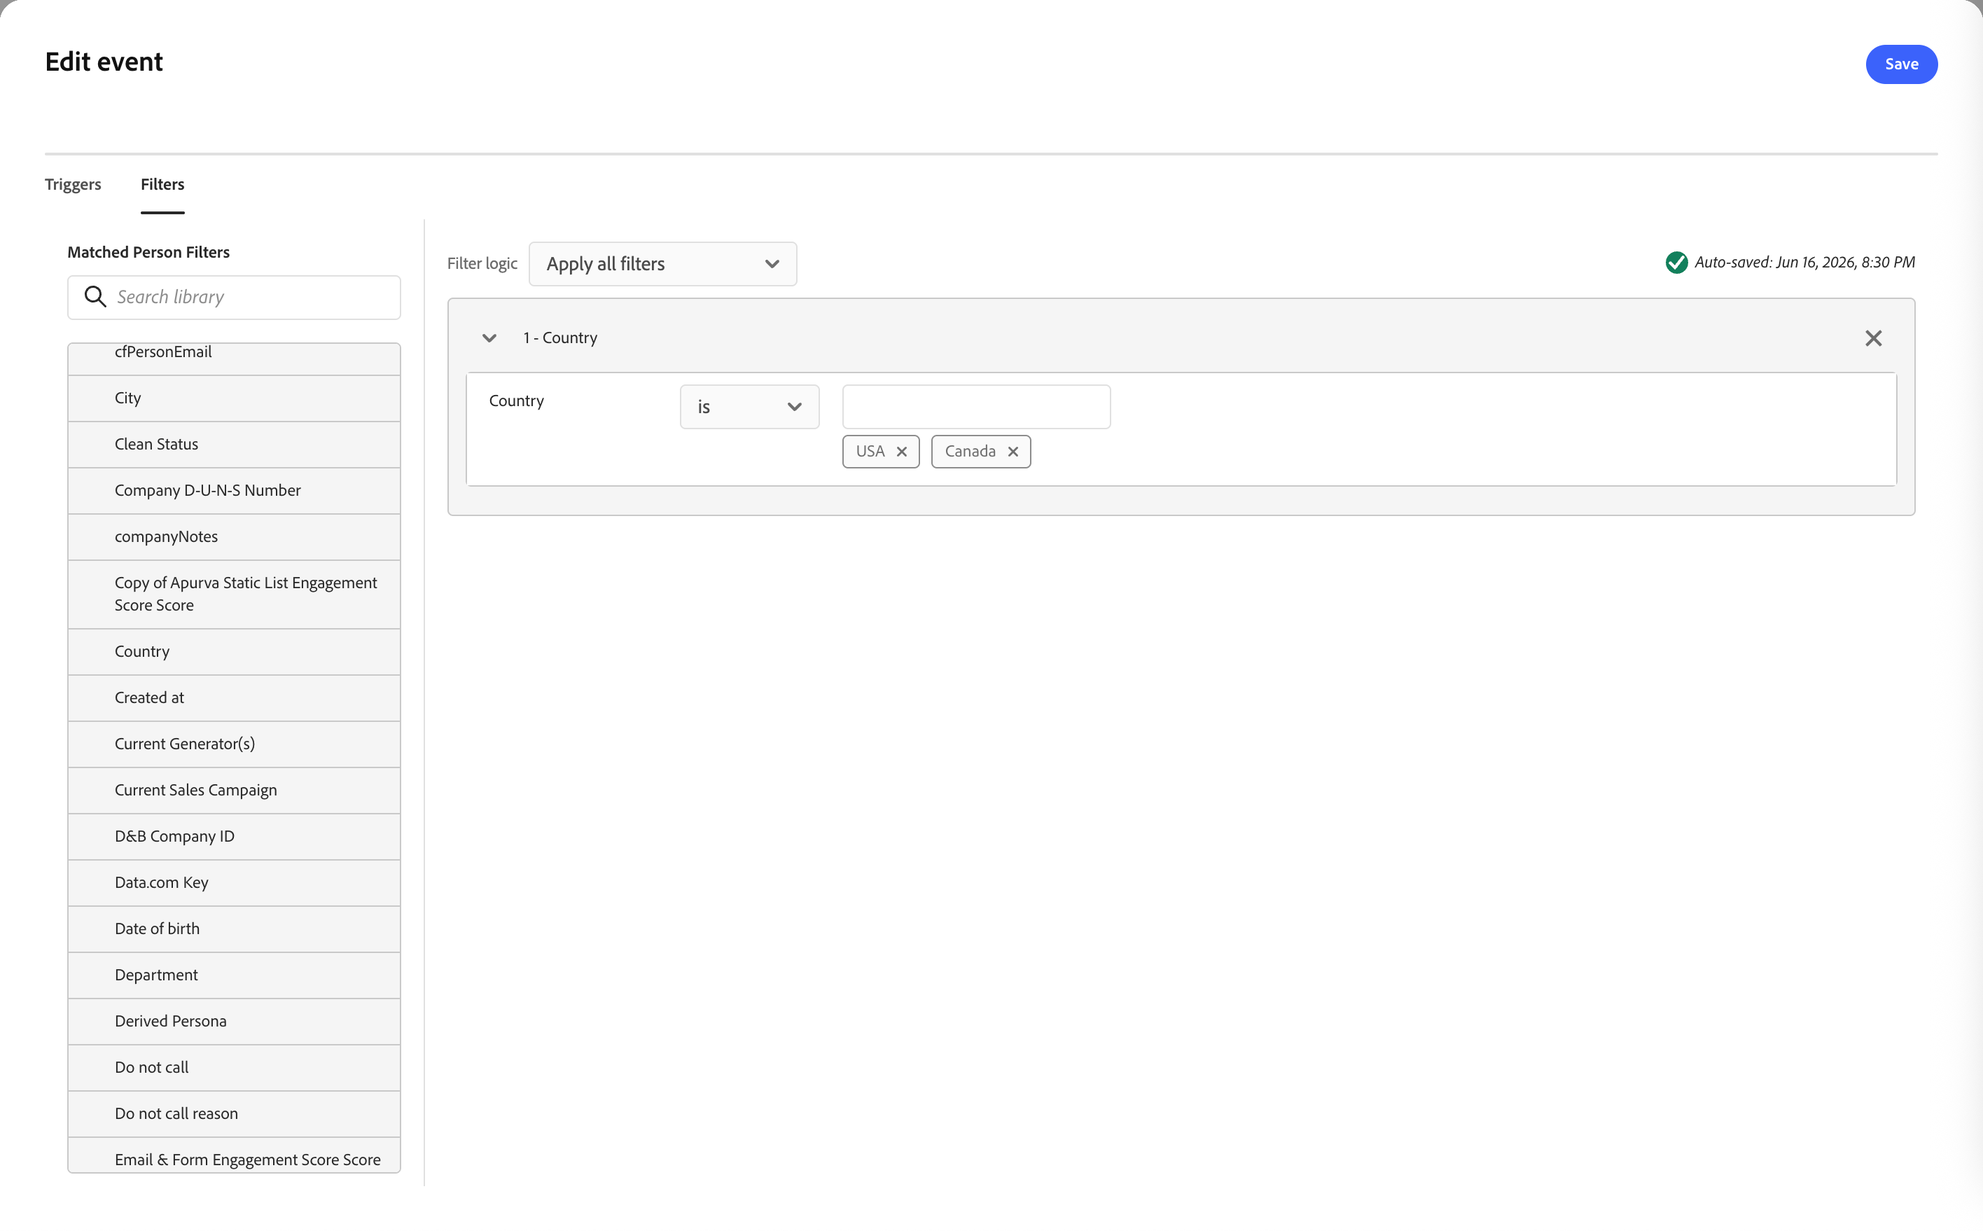
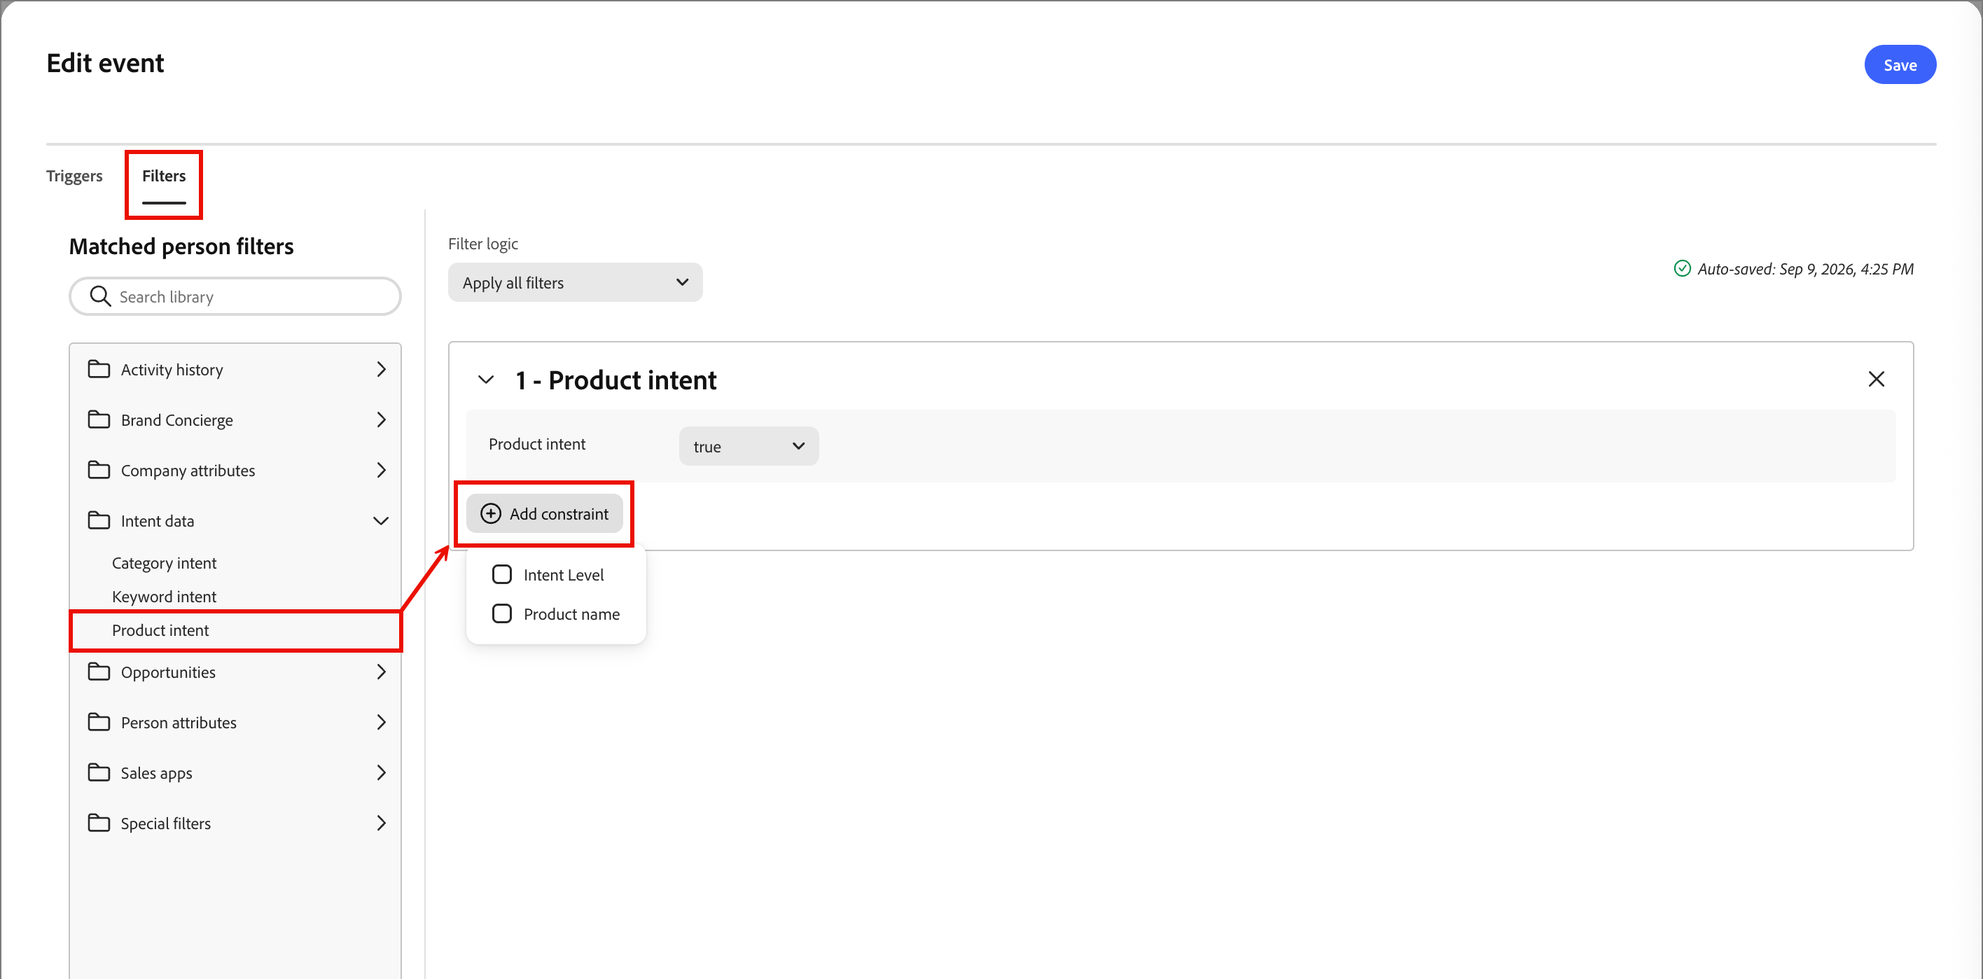
SPHR-39058, supported AME activities

diff --git a/help/user-guide/marketing/listen-for-event-nodes.md b/help/user-guide/marketing/listen-for-event-nodes.md
@@ -8,26 +8,90 @@ product_v2:
 ---
 # Listen for an event node
 
-Add the _Listen for an event_ node to move your audience forward to the next step in the journey when an event occurs.
+To advance your audience to the next step in the journey when an event occurs, add the _Listen for an event_ node. 
 
 ## Event triggers {#event-triggers}
 
-You can build triggers around [!DNL Marketo Engage] activities, such as:
+Define the event criteria that fire the journey node and move the audience member forward. 
 
-* Fills Out Form - Fires when a person submits a [!DNL Marketo Engage] form on your landing page.
-* Visits Web Page - Fires when a lead views a tracked webpage (you can specify exact URLs or use wildcards).
-* Clicks Link - Fires when a tracked link in a marketing email is clicked.
-* Data Value Changes - Fires when a specific field (like Lead Status, Score, or Industry) is updated on a person's record.
-* Campaign is Requested - Often used for API or webhook integrations, this trigger kicks off a campaign when another program or web service calls it.
-* Score is Changed - Fires when an individual's lead score increases or decreases past a certain threshold.
-* Mobile Push Tapped - Fires in mobile marketing smart campaigns when a push notification is interacted with on a device.
+<!--
+
+Waiting for Steven to confirm what will be available for GA
+
+| Triggers | Description |
+| -------- | ----------- |
+| Brand Concierge | |
+| Email | |
+| Event | |
+| Opportunities | |
+| Sales apps | |
+| Other | |
+
+--> 
+
+>[!BEGINSHADEBOX]
+
+**Supported Marketo Engage activities for triggers**
+
+When triggering on events, [!DNL Marketo Optimizer] supports activities from the [!DNL Marketo Engage] instance that is connected as the data source. 
+
+>[!NOTE]
+>
+>There can be only one [!DNL Marketo Engage] instance as the data source and it is preconfigured at time of provisioning of your [!DNL Marketo Optimizer] instance.
+
+You can build event triggers around the following [!DNL Marketo Engage] activities:
+
+* [!UICONTROL Fills out Marketo Engage form] - Fires when a lead submits a specified [!DNL Marketo Engage] form.
+* [!UICONTROL Visits Marketo Engage web page] - Fires when a lead with a Munchkin tracking cookie visits a specified web page.
+* [!UICONTROL Clicks link on Marketo Engage web page] - Fires when a lead clicks a tracked hyperlink on a web page that has the [!DNL Marketo Engage] Munchkin tracking code installed.
+* [!UICONTROL Marketo Engage email is delivered] - Fires when a lead's mail server (MX) returns a success response (a 250 OK message) to the [!DNL Marketo Engage] sending server.
+* [!UICONTROL Marketo Engage email bounces] - Fires when a target mail server rejects a sent [!DNL Marketo Engage] email message as a permanent error, such as an invalid user or unknown domain.
+* [!UICONTROL Marketo Engage email bounces soft] - Fires when a target mail server rejects a sent [!DNL Marketo Engage] email message as a temporary issue (such as server busy or mailbox full). [!DNL Marketo Engage] automatically retries soft bounces up to three times through MX servers before flagging issues.
+* [!UICONTROL Unsubscribes from Marketo Engage email] - Fires when a lead opts out of non-operational marketing emails. When triggered, [!DNL Marketo Engage] automatically updates the lead's `Unsubscribed` field value to `true`, suppressing them from future standard email sends.
+* [!UICONTROL Opens Marketo Engage email] - Fires when a lead opens a tracked [!DNL Marketo Engage] email.
+* [!UICONTROL Clicks link in Marketo Engage email] - Fires when a lead clicks any link (or a specific constrained link) inside a [!DNL Marketo Engage] email.
+
+>[!ENDSHADEBOX]
 
 ## Event filters {#event-filters}
 
+You can include filtering to limit matching event triggers based on various criteria:
+
 | Filters | Description |
 | ------- | ----------- |
-| Activity history > Email | Email activities based on conditions that are evaluated using one or more selected email messages: <li>Clicked link in email <li>Opened email |
-| Activity history > Data Value Changed | For a selected person attribute, a value change occurred. These change types include: <li>New value <li>Previous value <li>Reason <li>Source <li>Date of activity <li> Min. number of times |
+| Activity history | Activities based on conditions that are evaluated using one or more selected items |
+| Brand Concierge | |
+| Company attributes | Attributes from the company/account profile, including: <li>Annual revenue <li>Company name <li>Billing country <li>Industry <li>Num employees <li>SIC code <li>State |
+| Intent data | Attributes based on intent data associated with the person profile. |
+| Opportunities | Attributes based on the opportunities associated with the person profile. |
+| Person attributes | Attributes from the B2B person profile, including: <li>City <li>Country <li>Date of birth <li>Email address <li>Email invalid <li>Email suspended <li>First name <li>Inferred state region<li>Job title <li>Last name <li>Mobile phone number <li>Person engagement score <li>Phone number <li>Postal code <li>State <li>Unsubscribed <li>Unsubscribed reason |
+| Sales apps | |
+| Special filters | |
+
+>[!BEGINSHADEBOX]
+
+**Supported Marketo Engage activities for filters**
+
+When filtering for triggered events, [!DNL Marketo Optimizer] supports activities from the [!DNL Marketo Engage] instance that is connected as the data source. 
+
+>[!NOTE]
+>
+>There can be only one [!DNL Marketo Engage] instance as the data source and it is preconfigured at time of provisioning of your [!DNL Marketo Optimizer] instance.
+
+You can build event filters around the following [!DNL Marketo Engage] activities:
+
+* [!UICONTROL Filled Out Marketo Engage form] - Matches leads who have completed a specific [!DNL Marketo Engage] form at any point in their non-aged-out activity log.
+* [!UICONTROL Visited Marketo Engage web page] - Matches leads who have viewed a specific URL on your website or [!DNL Marketo Engage] landing pages. It relies directly on the Munchkin tracking code installed on your site. 
+* [!UICONTROL Clicked link on Marketo Engage web page] - Matches leads who have clicked a specific link or asset on a tracked page.
+* [!UICONTROL Was sent Marketo Engage email] - Matches leads to whom [!DNL Marketo Engage] attempted to send a specific email, accounting for deployment actions prior to hard bounces or server acceptances.
+* [!UICONTROL Was delivered Marketo Engage email] - Matches leads whose mail server (MX) returned a success response (a 250 OK message) to the [!DNL Marketo Engage] sending server.
+* [!UICONTROL Marketo Engage email bounced] - Matches leads who experienced a hard bounce (permanent delivery failure) on a specific email send or within a timeframe.
+* [!UICONTROL Marketo Engage email bounced soft] - Matches leads whose emails experienced a temporary delivery failure (such as a full inbox or an offline server) rather than a permanent hard bounce.
+* [!UICONTROL Unsubscribed from Marketo Engage email] - Matches leads who opted out of non-operational marketing emails. When this occurs, [!DNL Marketo Engage] automatically updates the lead's `Unsubscribed` field value to `true`, suppressing them from future standard email sends.
+* [!UICONTROL Opened Marketo Engage email] - Matches leads who opened a tracked [!DNL Marketo Engage] email.
+* [!UICONTROL Clicked link in Marketo Engage email] - Matches leads who clicked any link (or a specific link) inside a [!DNL Marketo Engage] email.
+
+>[!ENDSHADEBOX]
 
 ## Add an event node {#add-event-node}
 
@@ -39,19 +103,24 @@ You can build triggers around [!DNL Marketo Engage] activities, such as:
 
 1. In the node properties on the right, click **[!UICONTROL Add event criteria]**.
 
-1. In the _[!UICONTROL Edit event]_ dialog, add the events to trigger.
+1. In the _[!UICONTROL Edit event]_ dialog, add an event and set the constraints that you want to match for the trigger.
 
-   ![Edit event - event triggers](./assets/edit-event-triggers.png){width="600" zoomable="yes"}
+   Drag and drop the event trigger into the builder space and set the definition. Click **[!UICONTROL Add constraint]** for each constraint that you want to use to refine the event match.
 
-1. (Optional) Select the **[!UICONTROL Filters]** tab in the dialog and add filtering criteria for the triggers.
+   ![Edit event - event triggers](./assets/edit-event-triggers.png){width="700" zoomable="yes"}
 
-1. Click **[!UICONTROL Edit event]** and define details for the event.
+   You can add multiple events to match. The first qualifying event advances the person profile forward in the journey.
 
-   ![Edit event - event filtering](./assets/edit-event-filters.png){width="600" zoomable="yes"}
+1. (Optional) Select the **[!UICONTROL Filters]** tab and add filtering criteria for the triggers.
+
+   Drag and drop the filter into the builder space and set the definition. Click **[!UICONTROL Add constraint]** for each constraint that you want to use to refine the filter match.
+
+   ![Edit event - event filtering](./assets/edit-event-filters.png){width="700" zoomable="yes"}
 
 1. Click **[!UICONTROL Save]**.
 
-<!--
+   At any point, you can click **[!UICONTROL Edit event]** to change the event criteria for the node.
+
 1. If needed, set the **[!UICONTROL Timeout]** option to limit the time period to listen for the event.
 
    >[!NOTE]
@@ -60,12 +129,6 @@ You can build triggers around [!DNL Marketo Engage] activities, such as:
 
    Enable the **[!UICONTROL Timeout]** option and select the duration for which the journey waits for an event to occur before it times out.
 
-   You can choose to end the path here or take a different course of action by setting another path. To create a new path in the journey where you can add actions and events applicable to accounts when the event does not occur, select the **[!UICONTROL Set timeout path]** check box.
+   ![Timeout options enabled for the Listen for event journey node](./assets/person-journey-event-node-timeout.png){width="550" zoomable="yes"}
 
-   ![Journey event node - set timeout path](assets/node-event-timeout-set-path.png){width="700" zoomable="yes"}
--->
-
->[!NOTE]
->
->The timeout functionality for Listen for an event node does not currently function. It is planned for a later release.
-
+   You can choose to end the path here or take a different action by setting another path. To create a new path in the journey where you can add actions and events applicable to accounts when the event does not occur, select the **[!UICONTROL Set timeout path]** check box.

diff --git a/help/user-guide/marketing/split-merge-paths-nodes.md b/help/user-guide/marketing/split-merge-paths-nodes.md
@@ -11,7 +11,7 @@ feature_v2:
 ---
 # Split and merge paths nodes
 
-Use split and merge paths nodes in person journeys to segment people into distinct paths based on conditions you define, then bring those paths back together so the journey can continue. Split paths let you tailor actions and events to specific audience segments, while merge paths reunite those segments at a common point downstream.
+Use split and merge paths nodes in person journeys to segment people into distinct paths based on conditions you define, then merge those paths so the journey can continue. Split paths let you tailor actions and events to specific audience segments, while merge paths combine those segments at a common point.
 
 ## Split paths nodes
 
@@ -21,21 +21,50 @@ A Split paths node defines one or more segmented paths based on people filters.
 
 <!-- A split based on a people filter is automatically closed with a merge paths node so that all people can move forward to the next step. Split by people paths can include only people actions. These paths cannot be split again and automatically join back. _not currently true_ -->
 
-_**How a split path by people node works**_ 
+_**How a split path node functions**_
 
-* Evaluation of each path is from top to bottom. If a person matches for the first and second paths, they proceed along the first path only.
+* Evaluation of each path is from top to bottom. If a person matches the first and second paths, they proceed along the first path only.
 * The node supports the definition of an _Other people_ path, where you can add actions or events for people that do not match one of the defined segments/paths.
 
-### Matching filters
+### Matched person filters
 
-For each path that you define for the node, use the following filter types to match people according to one or more conditions:
+For each path that you define for the node, use the following filter types to match people according to one or more conditions.
 
-* Activity history - You can define a path according to the person's activity related to:
+| Filters | Description |
+| ------- | ----------- |
+| Activity history | Activities based on conditions that are evaluated using one or more selected items |
+| Brand Concierge | |
+| Company attributes | Attributes from the company/account profile, including: <li>Annual revenue <li>Company name <li>Billing country <li>Industry <li>Num employees <li>SIC code <li>State |
+| Intent data | Attributes based on intent data associated with the person profile. |
+| Opportunities | Attributes based on the opportunities associated with the person profile. |
+| Person attributes | Attributes from the B2B person profile, including: <li>City <li>Country <li>Date of birth <li>Email address <li>Email invalid <li>Email suspended <li>First name <li>Inferred state region<li>Job title <li>Last name <li>Mobile phone number <li>Person engagement score <li>Phone number <li>Postal code <li>State <li>Unsubscribed <li>Unsubscribed reason |
+| Sales apps | |
+| Special filters | |
 
-   * Email messages
-   * Change in data value
+>[!BEGINSHADEBOX]
 
-* Person attributes - Define a condition according to a person's attributes, such as country, job title, dervived persona, or list membership.
+**Supported Marketo Engage activities for condition filters**
+
+For path conditions, [!DNL Marketo Optimizer] supports activities from the [!DNL Marketo Engage] instance that is connected as the data source. 
+
+>[!NOTE]
+>
+>There can be only one [!DNL Marketo Engage] instance as the data source and it is preconfigured at time of provisioning of your [!DNL Marketo Optimizer] instance.
+
+You can build conditions around the following [!DNL Marketo Engage] activities:
+
+* [!UICONTROL Filled Out Marketo Engage form] - Matches leads who have completed a specific [!DNL Marketo Engage] form at any point in their non-aged-out activity log.
+* [!UICONTROL Visited Marketo Engage web page] - Matches leads who have viewed a specific URL on your website or [!DNL Marketo Engage] landing pages. It functions directly using the Munchkin tracking code installed on your site. 
+* [!UICONTROL Clicked link on Marketo Engage web page] - Matches leads who have clicked a specific link or asset on a tracked page.
+* [!UICONTROL Was sent Marketo Engage email] - Matches leads to whom [!DNL Marketo Engage] attempted to send a specific email, accounting for deployment actions prior to hard bounces or server acceptances.
+* [!UICONTROL Was delivered Marketo Engage email] - Matches a lead whose mail server (MX) returned a success response (a 250 OK message) to the [!DNL Marketo Engage] sending server.
+* [!UICONTROL Marketo Engage email bounced] - Matches for leads who experienced a hard bounce (permanent delivery failure) on a specific email send or within a timeframe.
+* [!UICONTROL Marketo Engage email bounced soft] - Matches leads whose emails experienced a temporary delivery failure (such as a full inbox or an offline server) rather than a permanent hard bounce.
+* [!UICONTROL Unsubscribed from Marketo Engage email] - Matches leads who opted out of non-operational marketing emails. When this occurs, [!DNL Marketo Engage] automatically updates the lead's `Unsubscribed` field value to `true`, suppressing them from future standard email sends.
+* [!UICONTROL Opened Marketo Engage email] - Matches leads who opened a tracked [!DNL Marketo Engage] email.
+* [!UICONTROL Clicked link in Marketo Engage email] - Matches leads who clicked any link (or a specific link) inside a [!DNL Marketo Engage] email.
+
+>[!ENDSHADEBOX]
 
 ### Add a split paths node
 
@@ -47,13 +76,15 @@ For each path that you define for the node, use the following filter types to ma
 
 1. To define a condition applicable to _[!UICONTROL Path 1]_, click **[!UICONTROL Apply condition]**.
 
-1. In the conditions editor, add one or more filters to define the split path.
+1. To define the split path, add one or more filters in the conditions editor.
 
    * Drag and drop any of the people filters from the left navigation and complete the match definition.
 
-   * Fine tune your conditions by applying the **[!UICONTROL Filter logic]** at the top. You choose to match all conditions or any one condition.
+   * Click **[!UICONTROL Add constraint]** for each constraint that you want to use to refine the filter match.
 
-      <!-- ![Split path node - conditions person filter logic](./assets/node-split-conditions-people.png){width="700" zoomable="yes"} -->
+      ![Split path node - matched person filter for path condition](./assets/journey-node-split-conditions-people.png){width="700" zoomable="yes"}
+
+   * Refine your conditions by applying the **[!UICONTROL Filter logic]** at the top. You choose to match all conditions or any one condition.
 
    * Click **[!UICONTROL Done]**.
 
@@ -79,7 +110,7 @@ When you have conditions defined for each path, you can add action or event node
 
 1. Navigate to the journey canvas and locate the split paths node with two or more paths.
 
-   Each path should have a combination of actions and events on each path.
+   Each path should have a combination of action and event nodes.
 
 1. Click the plus ( **+** ) icon at the end of any one of these paths and choose **[!UICONTROL Merge paths]** from the displayed options.
 

diff --git a/help/user-guide/data-architecture.md b/help/user-guide/data-architecture.md
@@ -26,7 +26,7 @@ topic_v2:
 
 # High-level architecture
 
-[!DNL Adobe Marketo Optimizer] integrates with [!DNL Adobe Marketo Engage] to deliver a 360-degree view of B2B leads. A bidirectional, trusted sync keeps [!DNL Marketo Engage] and [!DNL Marketo Optimizer] aligned, giving both platforms a single, shared view of People, Companies, Custom Objects, and Activities. High-performance, near-real-time data flow ensures records stay current and actionable, so campaigns and journeys can respond to leads the moment they engage.
+[!DNL Adobe Marketo Optimizer] integrates with [!DNL Adobe Marketo Engage] to deliver a comprehensive view of B2B leads. A bidirectional, trusted sync keeps [!DNL Marketo Engage] and [!DNL Marketo Optimizer] aligned, giving both platforms a single, shared view of People, Companies, Custom Objects, and Activities. High-performance, near-real-time data flow ensures records stay current and actionable, so campaigns and journeys can respond to leads the moment they engage.
 
 ## Data foundation
 
@@ -54,9 +54,17 @@ Leads and companies update instantly in both directions without creating duplica
 
 This near-zero latency design means analytics dashboards and downstream systems are fed on a near-real-time basis, enabling live campaign optimization and fast follow-up on high-priority leads.
 
+### [!DNL Marketo Engage] activity data support in journeys
+
+Synchronized [!DNL Marketo Engage] activity data powers event-based journey building in [!DNL Marketo Optimizer]. Use activities like form fills, web visits, and email engagement to trigger, filter, and branch person journeys.
+
+* [Event triggers for the Listen for an event node](./marketing/listen-for-event-nodes.md#event-triggers)
+* [Event filters for the Listen for an event node](./marketing/listen-for-event-nodes.md#event-filters)
+* [Matched person filters for split paths nodes](./marketing/split-merge-paths-nodes.md#matched-person-filters)
+
 ### Data isolation and tenancy
 
 * Customer data is shared between [!DNL Marketo Engage], [!DNL Marketo Optimizer], and [!DNL Experience Platform] as part of the product data synchronization and analytics architecture.
 * Data is logically isolated per tenant and protected by Adobe security controls.
-* Data is transferred over secure, encrypted channels and stored within Adobe-managed services using industry-standard encryption and access controls.
+* Data is transferred over secure, encrypted channels and stored within Adobe-Managed Services using industry-standard encryption and access controls.
 * Depending on the data type, information may be synchronized between [!DNL Marketo Engage] and [!DNL Marketo Optimizer] or replicated to [!DNL Experience Platform] to support reporting and analytics capabilities, while maintaining security and tenant isolation.
